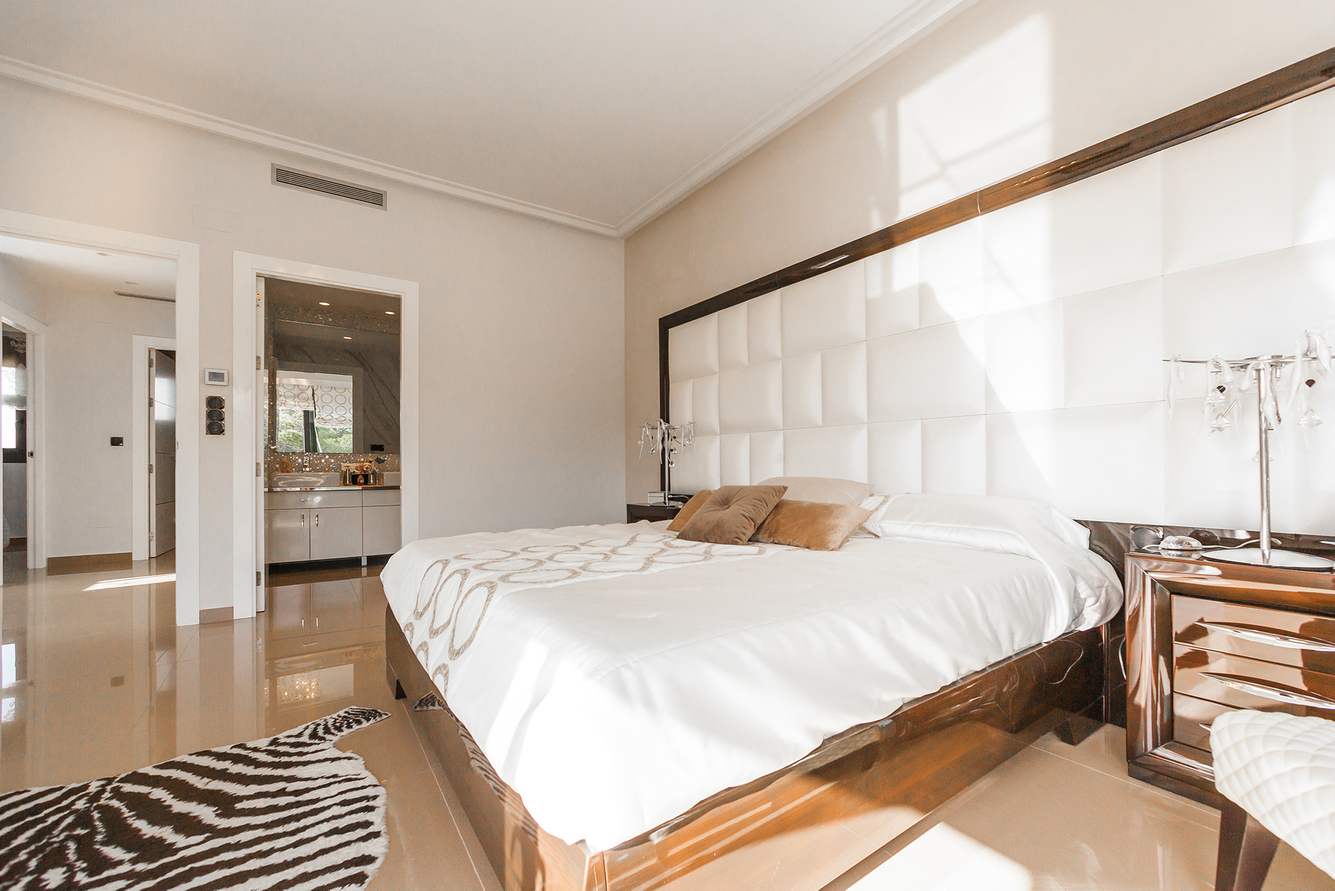
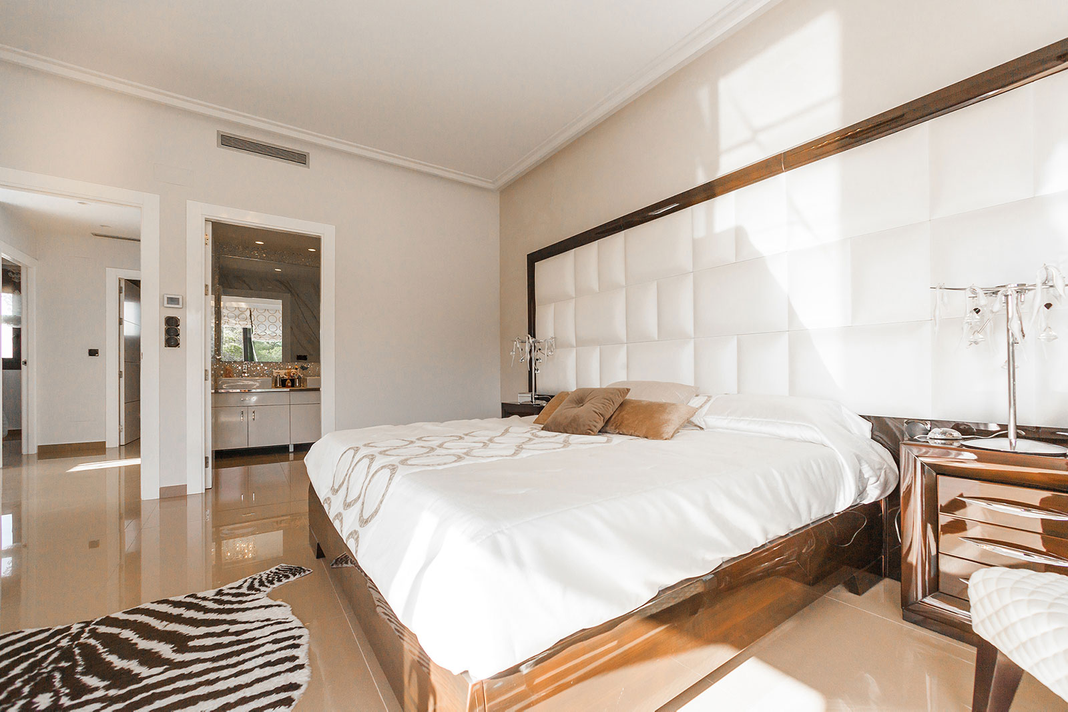
Added carousel to hero.

diff --git a/src/components/carousel.js b/src/components/carousel.js
@@ -1,0 +1,147 @@
+import React from "react"
+import { StaticQuery, graphql } from "gatsby"
+import Img from "gatsby-image"
+
+import {
+  MDBCarousel,
+  //   MDBCarouselCaption,
+  MDBCarouselInner,
+  MDBCarouselItem,
+  //   MDBView,
+  //   MDBMask,
+  //   MDBContainer,
+} from "mdbreact"
+
+export default () => (
+  <StaticQuery
+    query={graphql`
+      query CarouselQuery {
+        hero: file(relativePath: { eq: "gallery/hero.jpg" }) {
+          id
+          relativePath
+          childImageSharp {
+            fluid(maxHeight: 800, maxWidth: 2000, cropFocus: CENTER) {
+              ...GatsbyImageSharpFluid_withWebp
+            }
+          }
+        }
+        img1: file(relativePath: { eq: "gallery/img_1.jpg" }) {
+          id
+          relativePath
+          childImageSharp {
+            fluid(maxHeight: 800, maxWidth: 2000, cropFocus: CENTER) {
+              ...GatsbyImageSharpFluid_withWebp
+            }
+          }
+        }
+        img2: file(relativePath: { eq: "gallery/img_2.jpg" }) {
+          id
+          relativePath
+          childImageSharp {
+            fluid(maxHeight: 800, maxWidth: 2000, cropFocus: CENTER) {
+              ...GatsbyImageSharpFluid_withWebp
+            }
+          }
+        }
+        img3: file(relativePath: { eq: "gallery/img_3.jpg" }) {
+          id
+          relativePath
+          childImageSharp {
+            fluid(maxHeight: 800, maxWidth: 2000, cropFocus: CENTER) {
+              ...GatsbyImageSharpFluid_withWebp
+            }
+          }
+        }
+        img4: file(relativePath: { eq: "gallery/img_4.jpg" }) {
+          id
+          relativePath
+          childImageSharp {
+            fluid(maxHeight: 800, maxWidth: 2000, cropFocus: CENTER) {
+              ...GatsbyImageSharpFluid_withWebp
+            }
+          }
+        }
+        img5: file(relativePath: { eq: "gallery/img_5.jpg" }) {
+          id
+          relativePath
+          childImageSharp {
+            fluid(maxHeight: 800, maxWidth: 2000, cropFocus: CENTER) {
+              ...GatsbyImageSharpFluid_withWebp
+            }
+          }
+        }
+        img6: file(relativePath: { eq: "gallery/img_6.jpg" }) {
+          id
+          relativePath
+          childImageSharp {
+            fluid(maxHeight: 800, maxWidth: 2000, cropFocus: CENTER) {
+              ...GatsbyImageSharpFluid_withWebp
+            }
+          }
+        }
+      }
+    `}
+    render={data => (
+      <MDBCarousel
+        activeItem={1}
+        length={7}
+        showControls={true}
+        showIndicators={false}
+        interval={4000}
+        className="z-depth-1"
+      >
+        <MDBCarouselInner>
+          <MDBCarouselItem itemId="1">
+            <Img
+              className="d-block w-100"
+              fluid={data.hero.childImageSharp.fluid}
+              alt="slide1"
+            />
+          </MDBCarouselItem>
+          <MDBCarouselItem itemId="2">
+            <Img
+              className="d-block w-100"
+              fluid={data.img1.childImageSharp.fluid}
+              alt="slide2"
+            />
+          </MDBCarouselItem>
+          <MDBCarouselItem itemId="3">
+            <Img
+              className="d-block w-100"
+              fluid={data.img2.childImageSharp.fluid}
+              alt="slide3"
+            />
+          </MDBCarouselItem>
+          <MDBCarouselItem itemId="4">
+            <Img
+              className="d-block w-100"
+              fluid={data.img3.childImageSharp.fluid}
+              alt="slide4"
+            />
+          </MDBCarouselItem>
+          <MDBCarouselItem itemId="5">
+            <Img
+              className="d-block w-100"
+              fluid={data.img4.childImageSharp.fluid}
+              alt="slide5"
+            />
+          </MDBCarouselItem>
+          <MDBCarouselItem itemId="6">
+            <Img
+              className="d-block w-100"
+              fluid={data.img5.childImageSharp.fluid}
+              alt="slide6"
+            />
+          </MDBCarouselItem>
+          <MDBCarouselItem itemId="7">
+            <Img
+              className="d-block w-100"
+              fluid={data.img6.childImageSharp.fluid}
+              alt="slide7"
+            />
+          </MDBCarouselItem>
+        </MDBCarouselInner>
+      </MDBCarousel>
+    )}
+  />
+)

diff --git a/src/components/hero.js b/src/components/hero.js
@@ -1,18 +1,30 @@
 import React from "react"
-import { MDBView, MDBMask } from "mdbreact"
-
+import {
+  MDBJumbotron,
+  MDBRow,
+  MDBCol,
+  //   MDBContainer,
+  //   MDBView,
+  //   MDBMask,
+} from "mdbreact"
+import Carousel from "./carousel"
+import Form from "./form"
 const Hero = () => {
   return (
     <>
-      <MDBView>
+      {/* <MDBJumbotron className="p-0"> */}
+      <Carousel />
+      {/* </MDBJumbotron> */}
+
+      {/* <MDBView>
         <div className="bg">
-          {/* <MDBMask
+          <MDBMask
             className="flex-center"
             overlay="white-slight"
             pattern={1}
-          ></MDBMask> */}
+          ></MDBMask>
         </div>
-      </MDBView>
+      </MDBView> */}
     </>
   )
 }
